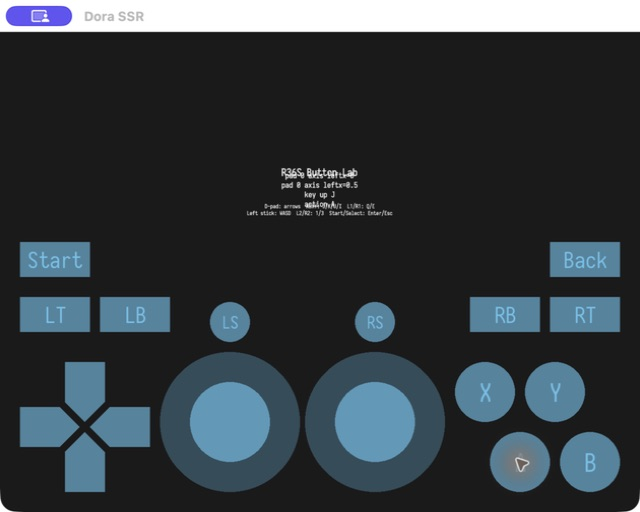
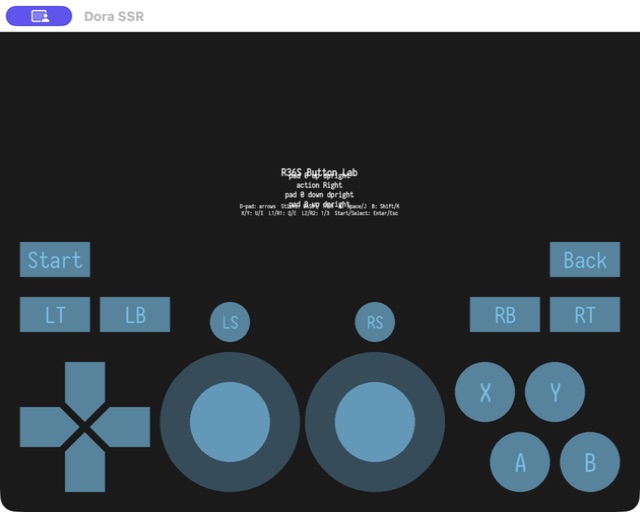
Add hybrid keyboard controller mapping

Changed region(s): [[0.375, 0.3125, 0.625, 0.4375], [0.7812, 0.875, 0.8438, 0.9375]]

diff --git a/dora/ButtonLab/Script/Input.ts b/dora/ButtonLab/Script/Input.ts
@@ -24,8 +24,16 @@ export const inputManager = CreateManager({
 			{ key: KeyName.Right },
 			{ button: ButtonName.Right },
 		]),
-		A: Trigger.Down([{ key: KeyName.J }, { button: ButtonName.A }]),
-		B: Trigger.Down([{ key: KeyName.K }, { button: ButtonName.B }]),
+		A: Trigger.Down([
+			{ key: KeyName.J },
+			{ key: KeyName.Space },
+			{ button: ButtonName.A },
+		]),
+		B: Trigger.Down([
+			{ key: KeyName.K },
+			{ key: KeyName.LShift },
+			{ button: ButtonName.B },
+		]),
 		X: Trigger.Down([{ key: KeyName.U }, { button: ButtonName.X }]),
 		Y: Trigger.Down([{ key: KeyName.I }, { button: ButtonName.Y }]),
 		L1: Trigger.Down([
@@ -75,6 +83,18 @@ export function installKeyboardAxes(): void {
 			case KeyName.D:
 				inputManager.emitAxis(AxisName.LeftX, 1);
 				break;
+			case KeyName.T:
+				inputManager.emitAxis(AxisName.RightY, 1);
+				break;
+			case KeyName.G:
+				inputManager.emitAxis(AxisName.RightY, -1);
+				break;
+			case KeyName.F:
+				inputManager.emitAxis(AxisName.RightX, -1);
+				break;
+			case KeyName.H:
+				inputManager.emitAxis(AxisName.RightX, 1);
+				break;
 			case KeyName.Num1:
 				inputManager.emitAxis(AxisName.LeftTrigger, 1);
 				break;
@@ -93,6 +113,14 @@ export function installKeyboardAxes(): void {
 			case KeyName.A:
 			case KeyName.D:
 				inputManager.emitAxis(AxisName.LeftX, 0);
+				break;
+			case KeyName.T:
+			case KeyName.G:
+				inputManager.emitAxis(AxisName.RightY, 0);
+				break;
+			case KeyName.F:
+			case KeyName.H:
+				inputManager.emitAxis(AxisName.RightX, 0);
 				break;
 			case KeyName.Num1:
 				inputManager.emitAxis(AxisName.LeftTrigger, 0);

diff --git a/dora/ButtonLab/init.tsx b/dora/ButtonLab/init.tsx
@@ -35,8 +35,8 @@ if (status) {
 
 const hints = Label("sarasa-mono-sc-regular", 13);
 if (hints) {
-	hints.text = "D-pad: arrows  ABXY: J/K/U/I  L1/R1: Q/E\n"
-		+ "Left stick: WASD  L2/R2: 1/3  Start/Select: Enter/Esc";
+	hints.text = "D-pad: arrows  Sticks: WASD / TFGH  A: Space/J  B: Shift/K\n"
+		+ "X/Y: U/I  L1/R1: Q/E  L2/R2: 1/3  Start/Select: Enter/Esc";
 	hints.y = 125;
 	hints.textWidth = 600;
 	hints.addTo(Director.ui);
@@ -92,8 +92,8 @@ toNode(
 // Deterministic smoke test: the same injection API is used by GamePad touches.
 inputManager.emitButtonDown(ButtonName.A);
 inputManager.emitButtonUp(ButtonName.A);
-inputManager.emitKeyDown(KeyName.J);
-inputManager.emitKeyUp(KeyName.J);
+inputManager.emitKeyDown(KeyName.Space);
+inputManager.emitKeyUp(KeyName.Space);
 inputManager.emitAxis(AxisName.LeftX, 0.5);
 inputManager.emitAxis(AxisName.LeftX, 0);
 print("BUTTON_LAB_SELF_TEST_OK");

diff --git a/README.md b/README.md
@@ -53,6 +53,9 @@ Web IDE。Coding Agent 修改
 源码后使用 `./dora-lab dev` 自动重新编译。需要排错时再使用
 `./dora-lab status` 或 `./dora-lab log`。
 
+无需鼠标逐个点击：运行 `./dora-lab keys` 可以随时查看键盘映射，键盘、
+屏幕按钮和真实手柄可以同时使用。
+
 实现位于 `dora/ButtonLab/`。虚拟按钮直接调用 Dora `InputManager` 的
 `emitButtonDown` / `emitButtonUp` / `emitAxis`，因此不是图片演示，而是会
 真正进入游戏输入管线的按钮模拟器。

diff --git a/dora/ButtonLab/README.md b/dora/ButtonLab/README.md
@@ -46,9 +46,12 @@ The window uses the handheld's logical `640x480` resolution on desktop. Verify:
 | Handheld input | Keyboard |
 | --- | --- |
 | D-pad | Arrow keys |
-| A / B / X / Y | J / K / U / I |
+| A | Space or J |
+| B | Left Shift or K |
+| X / Y | U / I |
 | L1 / R1 | Q / E |
 | Left stick | W / A / S / D |
+| Right stick | T / F / G / H |
 | L2 / R2 | 1 / 3 |
 | L3 / R3 | Z / C |
 | Select / Start | Escape / Enter |
